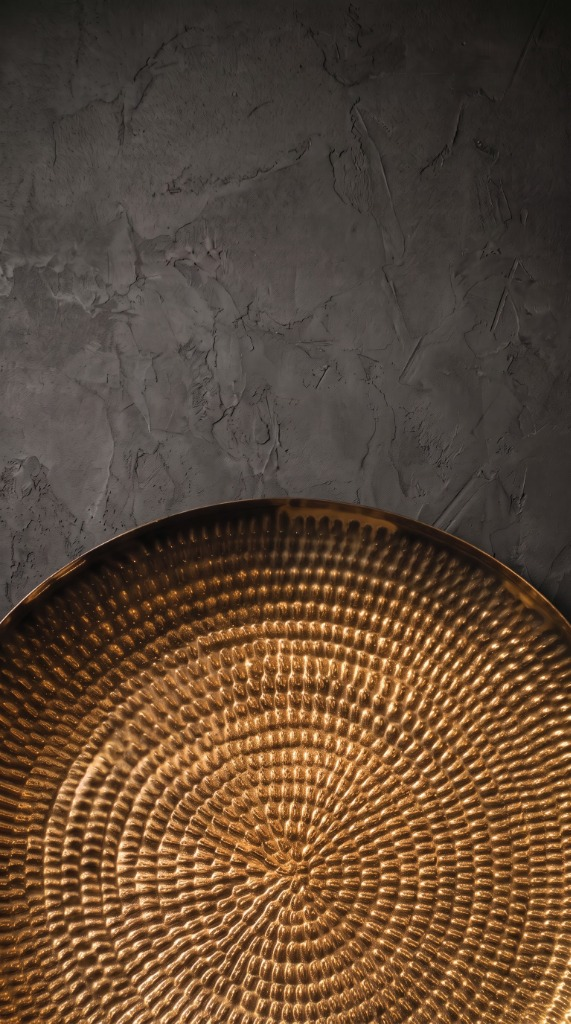
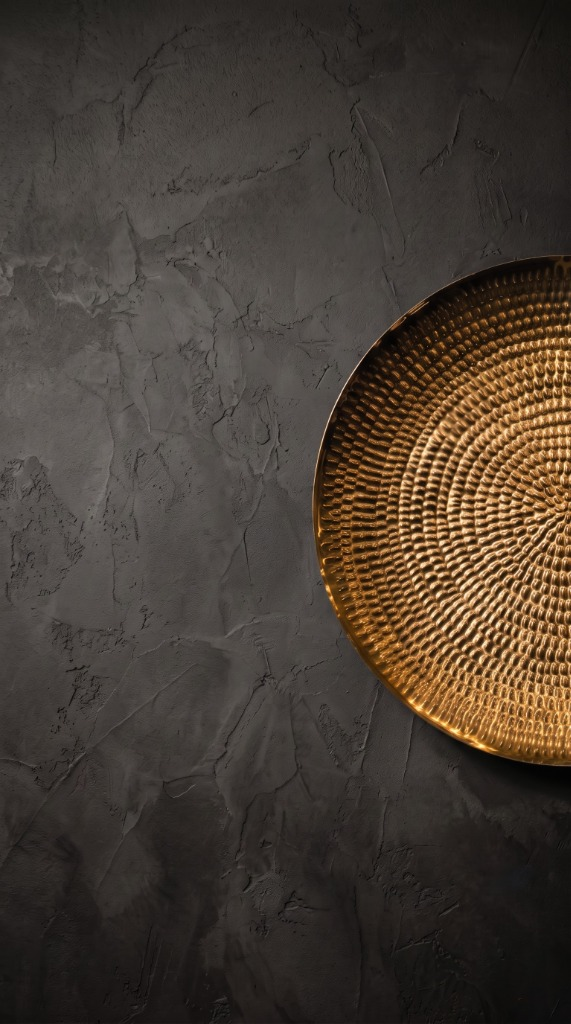
fix: update contact bg, remove GET IN TOUCH, and fix navbar overlap

diff --git a/index.html b/index.html
@@ -612,20 +612,17 @@
     <!-- ========================================================================
        08 — CONTACT TURATH (DYNAMIC CORNER MORPHING & GLASSMORPHISM)
        ======================================================================== -->
-  <section id="contact" class="relative w-full min-h-screen z-[70] bg-black overflow-hidden flex flex-col justify-between items-center px-4 sm:px-6 md:px-12 py-16 sm:py-20 md:py-24" style="border-top-left-radius: 60px; border-top-right-radius: 60px; box-shadow: 0 -25px 60px rgba(0, 0, 0, 0.9);" data-theme="dark">
+  <section id="contact" class="relative w-full min-h-screen z-[70] bg-black overflow-hidden flex flex-col justify-center items-center px-4 sm:px-6 md:px-12 pt-36 sm:pt-44 md:pt-48 pb-16 sm:pb-20" style="border-top-left-radius: 60px; border-top-right-radius: 60px; box-shadow: 0 -25px 60px rgba(0, 0, 0, 0.9);" data-theme="dark">
     <!-- Anchor alias -->
     <a id="contact-turath" class="sr-only"></a>
 
     <!-- Fixed Cover Background without dark mask -->
     <div class="absolute inset-0 w-full h-full pointer-events-none overflow-hidden z-0" id="contact-bg-media">
-      <img src="/assets/images/contact-bg.jpg" alt="Turath Handcrafted Brass Background" class="w-full h-full object-cover object-center scale-105" />
+      <img src="/assets/images/contact-bg.jpg?v=3" alt="Turath Handcrafted Brass Background" class="w-full h-full object-cover object-center scale-105 bg-cover bg-center" />
     </div>
 
     <!-- Free-Standing Main Title (Matches OUR VISION Typography Standards) -->
     <div class="relative z-10 w-full max-w-4xl mx-auto text-center mb-10 sm:mb-12 md:mb-14">
-      <span class="text-[0.7rem] sm:text-xs font-mono uppercase tracking-[0.3em] text-[#D7C797] font-semibold mb-3 block">
-        GET IN TOUCH
-      </span>
       <h2 class="hero-bottom-title about-title text-center mx-auto tracking-tight uppercase text-white mb-2">
         CONTACT TURATH
       </h2>
